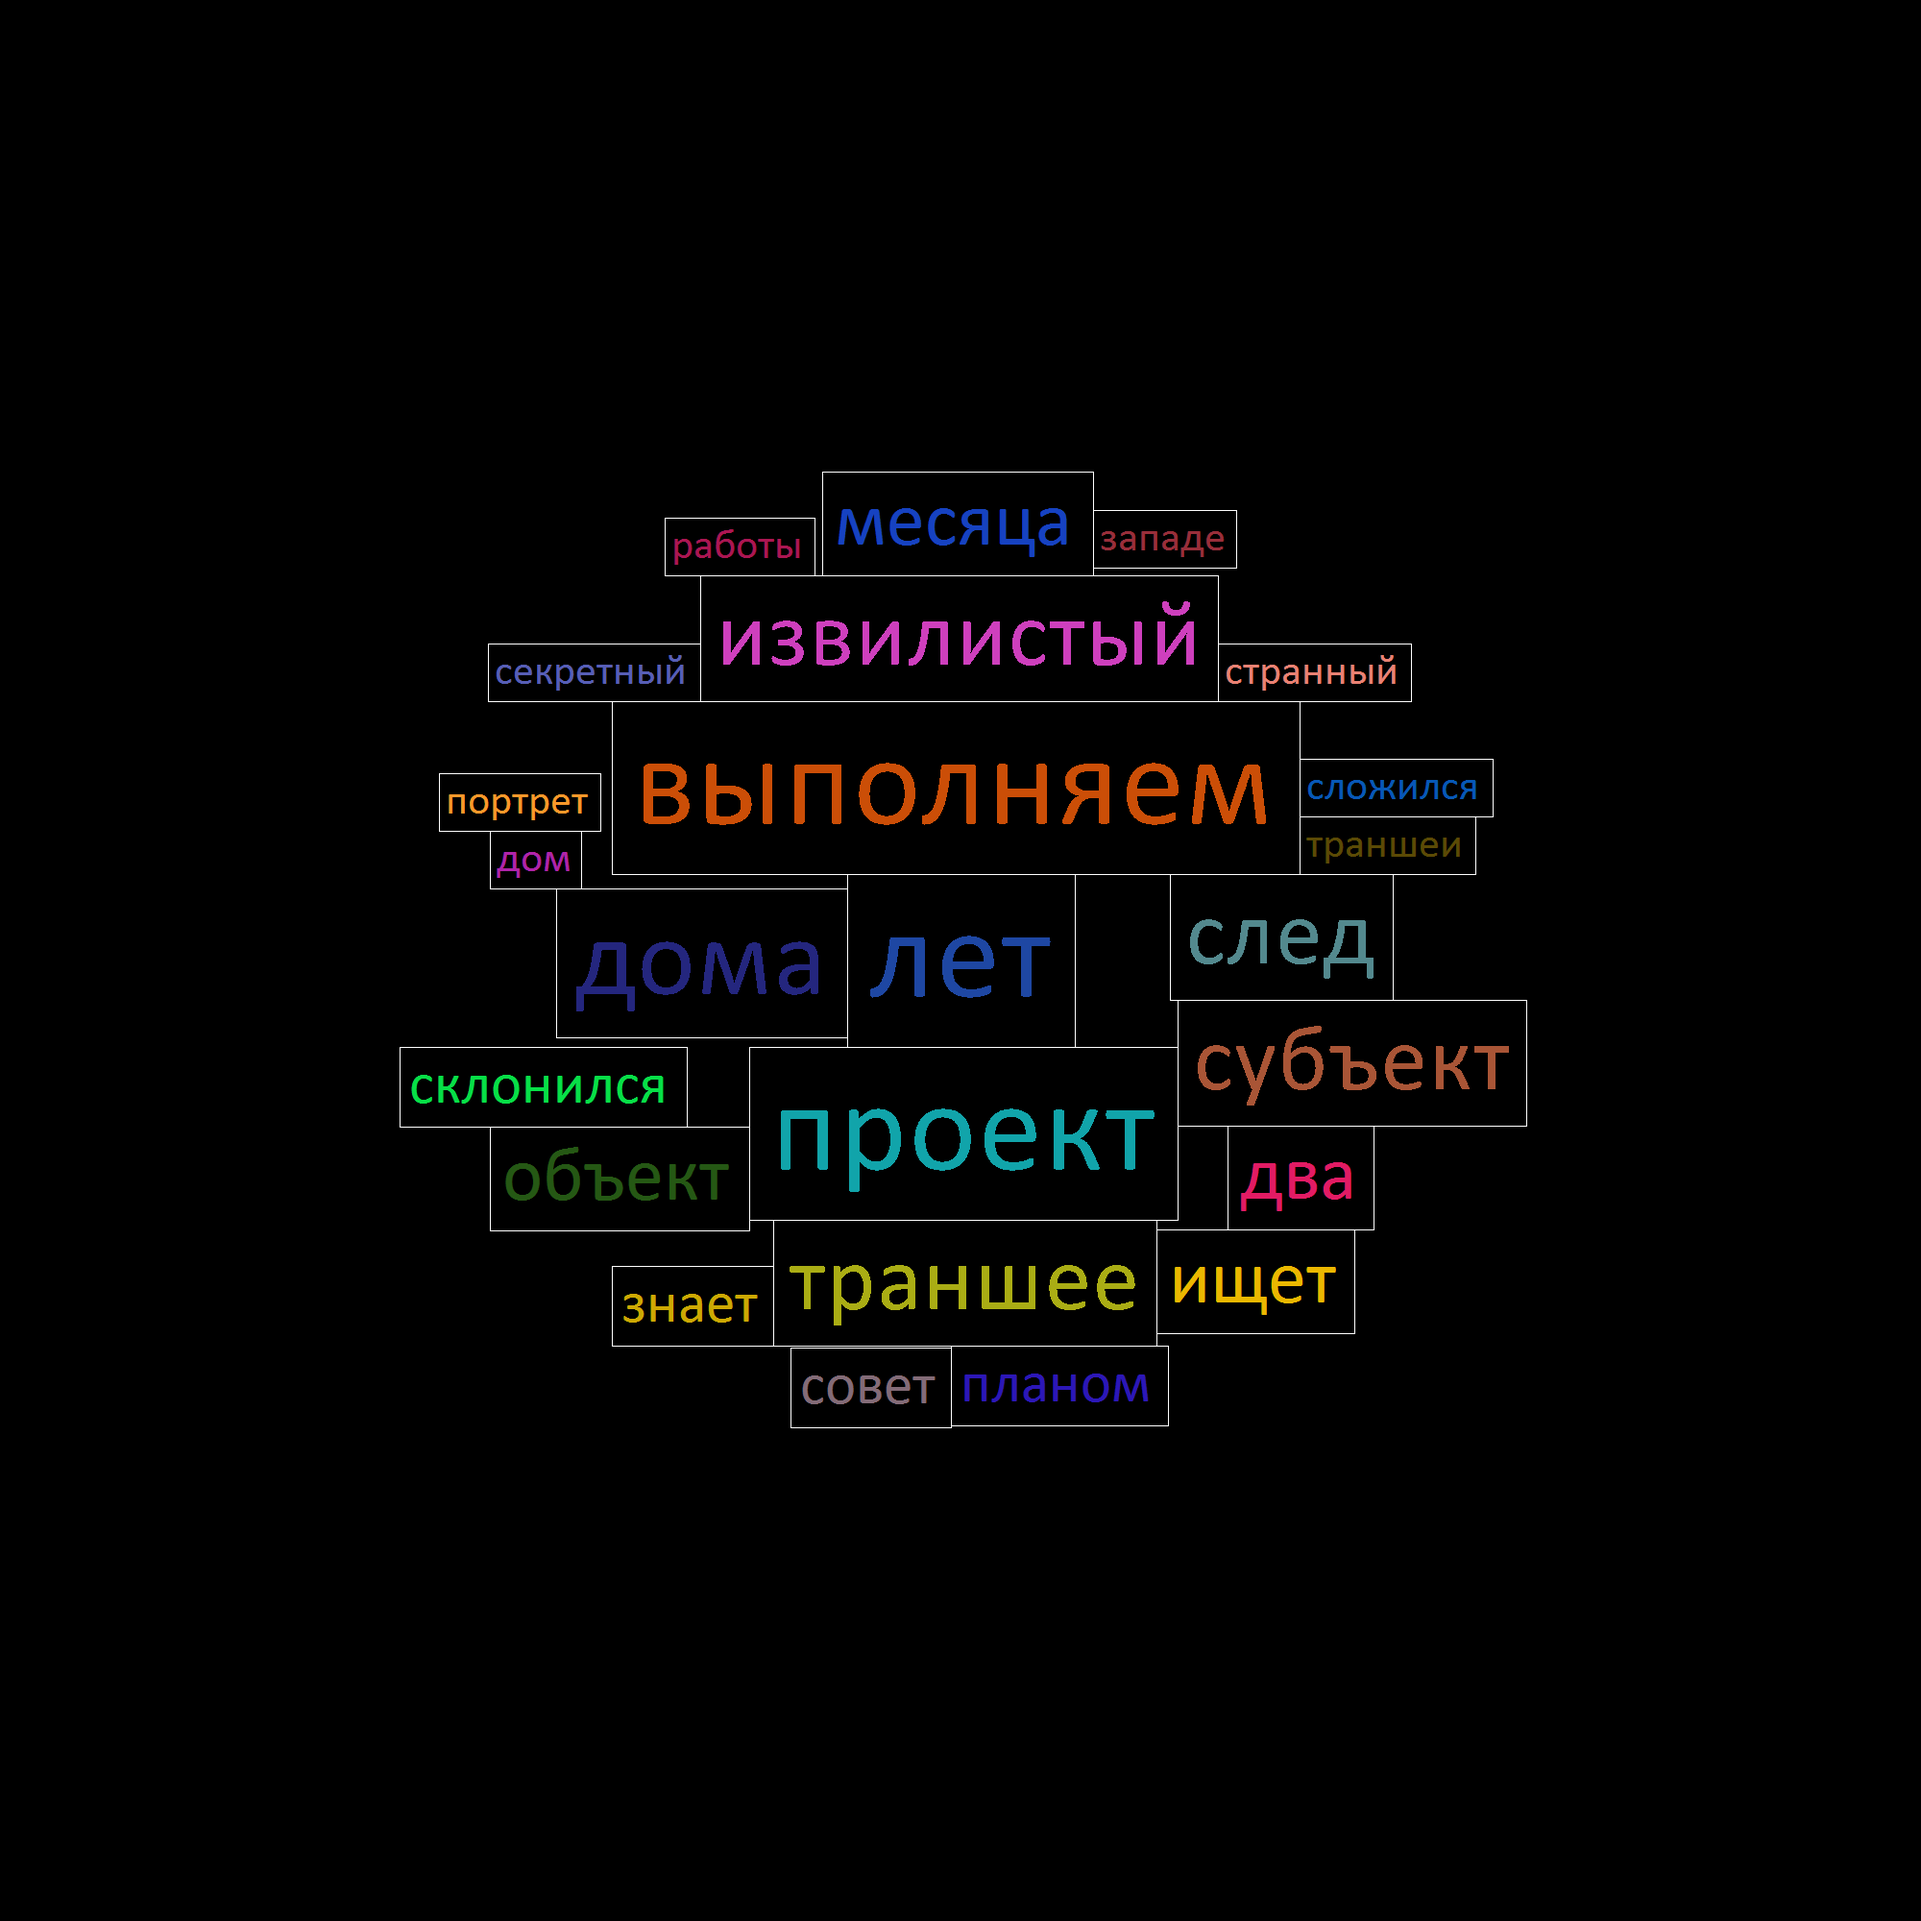
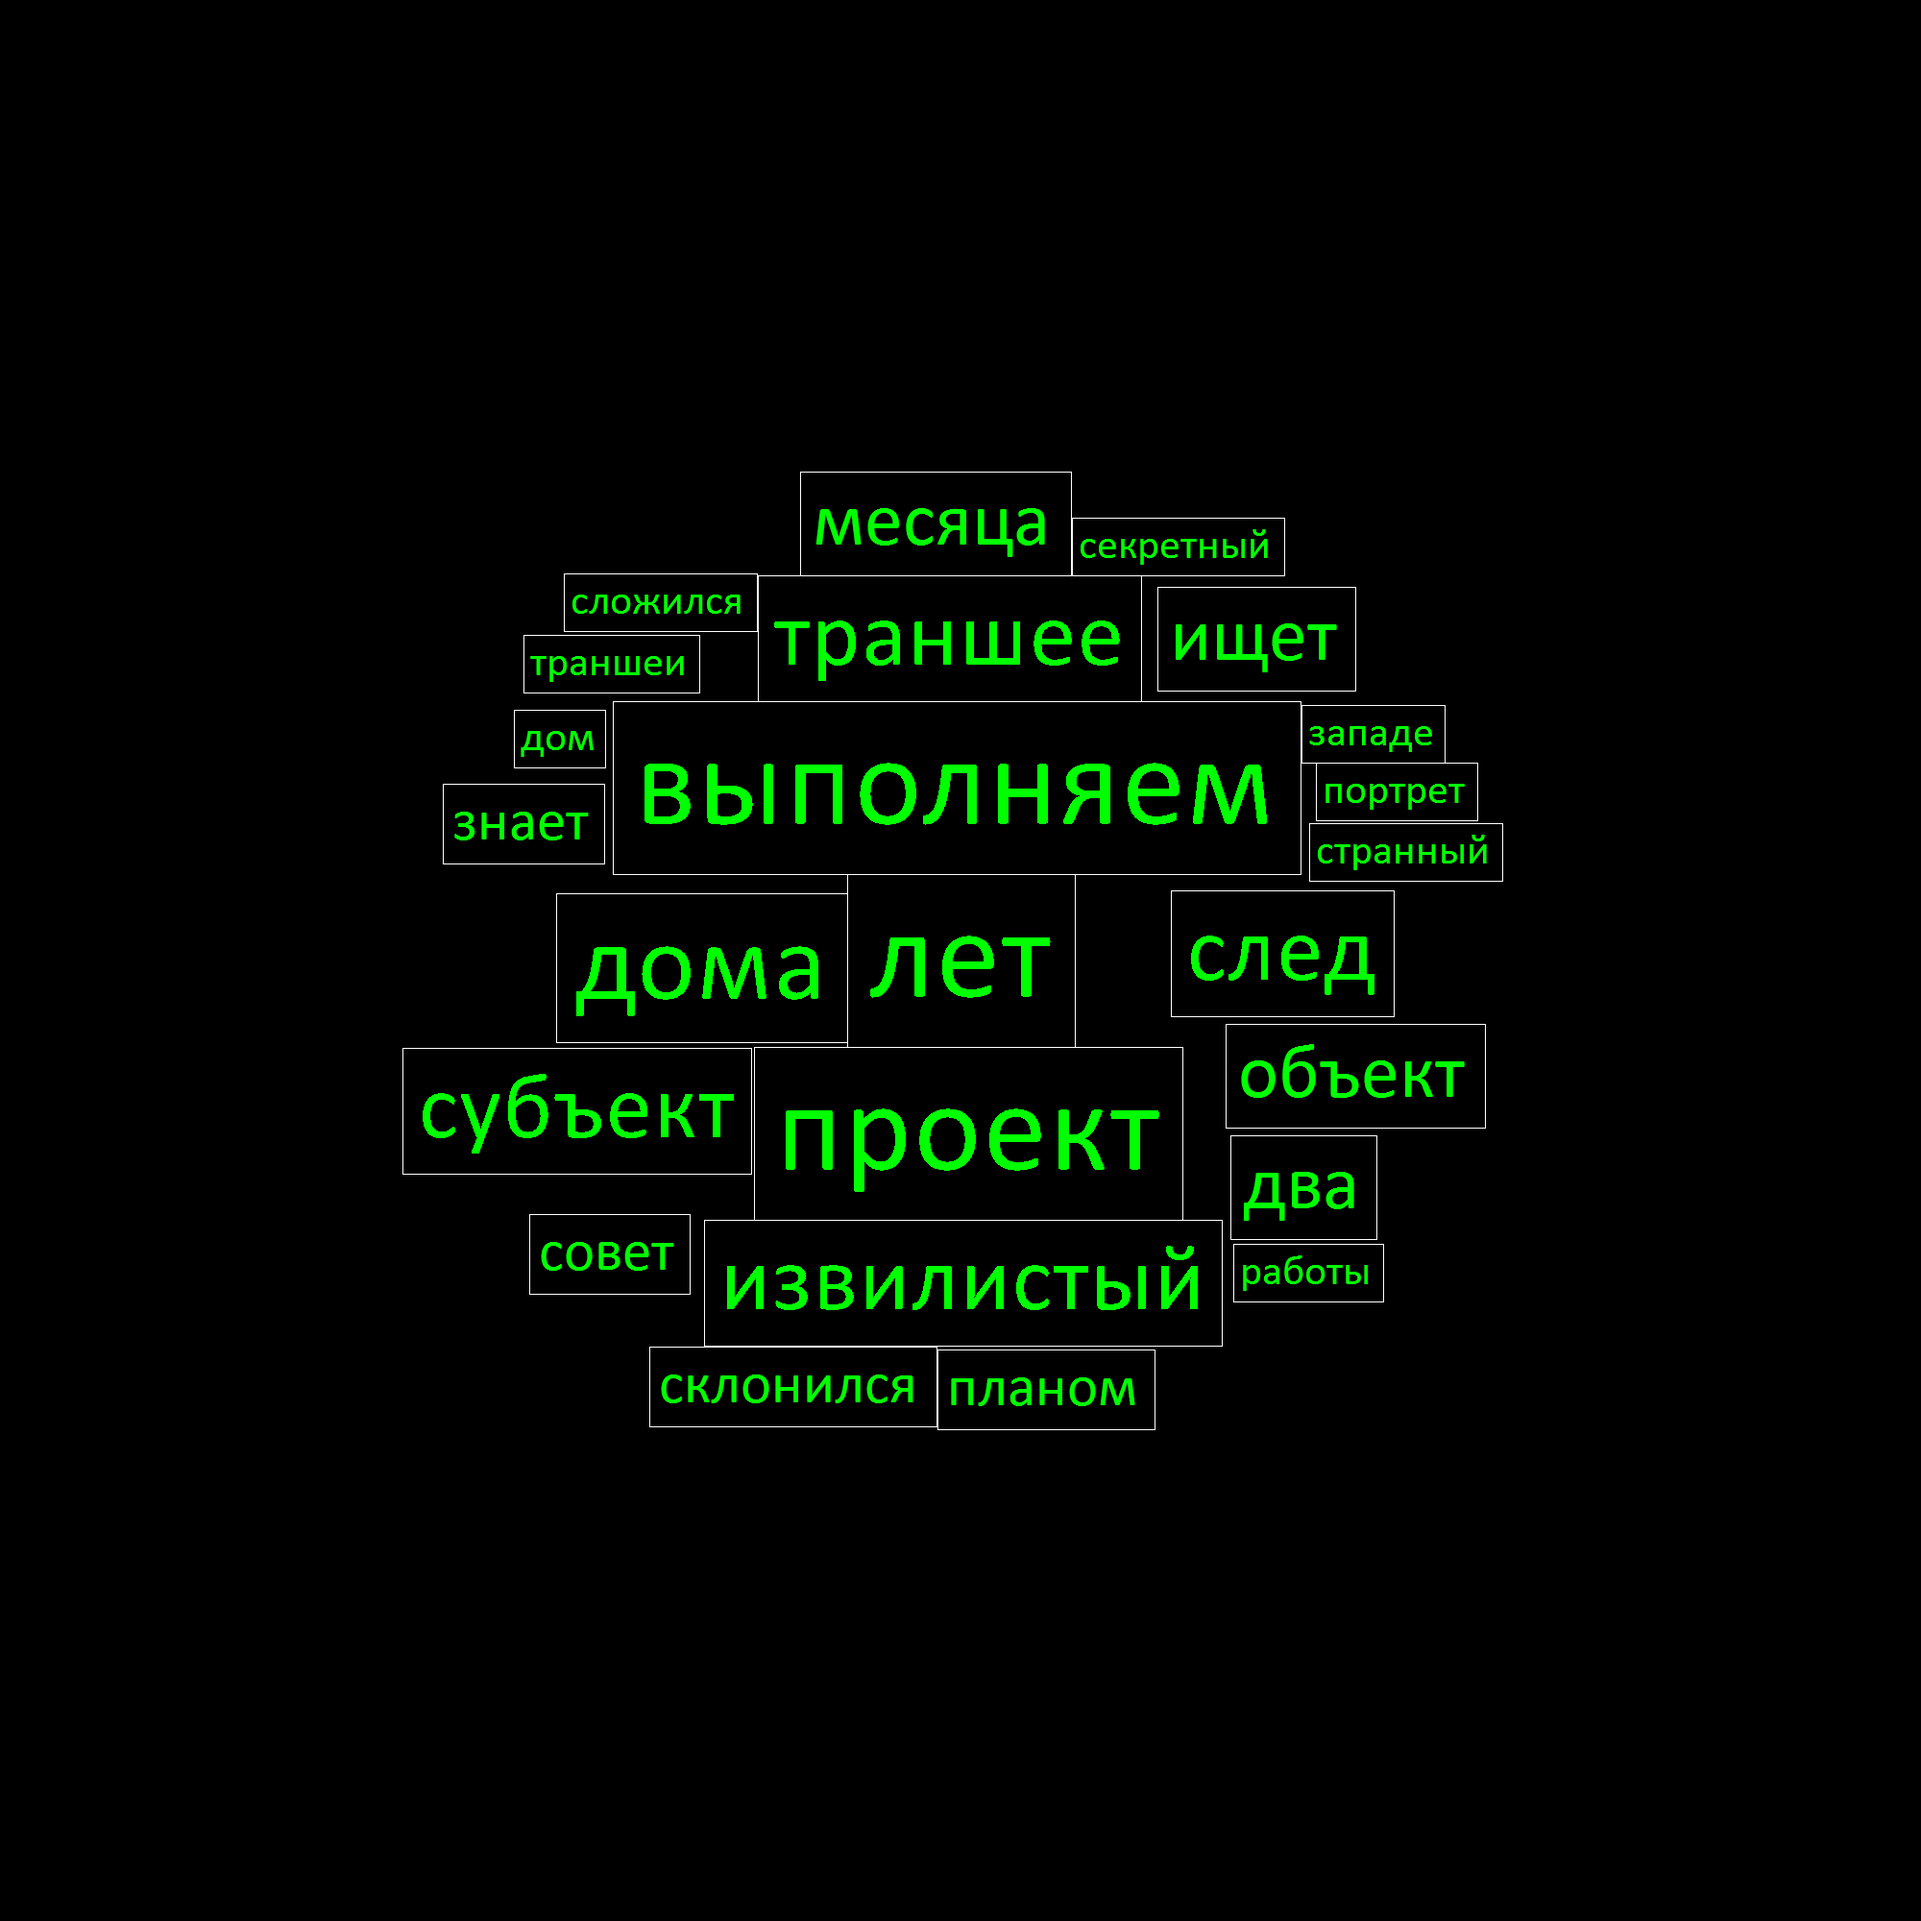
Добавил еще один алгоритм раскраски (один цвет по вводу пользователя)

Changed region(s): [[0.217, 0.248, 0.775, 0.744], [0.279, 0.465, 0.558, 0.527]]

diff --git a/TagsCloudVisualization/Options.cs b/TagsCloudVisualization/Options.cs
@@ -73,33 +73,35 @@ public class Options
 
     [Option('b', "background-color",
         Required = false,
-        HelpText = "Background color (format: 'black' or 'random')")]
+        HelpText = "Background color (format: 'black' or 'random' or '0xRRGGBB')")]
     public string BackgroundColorType { get; set; } = "black";
 
     public IImageColoring BackgroundColor
     {
-        get => BackgroundColorType.ToLower() switch
-        {
-            "black" => new BlackColoring(),
-            "random" => new RandomColoring(),
-            _ => throw new ArgumentException($"Invalid background color type: '{BackgroundColorType}'. Use 'black' or 'random'.")
-        };
+        get => GetColoringAlg(BackgroundColorType);
     }
 
     [Option('c', "word-color",
         Required = false,
-        HelpText = "Words color (format: 'black' or 'random')")]
+        HelpText = "Words color (format: 'black' or 'random' or '0xRRGGBB')")]
     public string WordColorType { get; set; } = "random";
 
     public IImageColoring ForegroundColor
     {
-        get => WordColorType.ToLower() switch
+        get => GetColoringAlg(WordColorType);
+    }
+
+    private IImageColoring GetColoringAlg(string colotStr) =>
+        colotStr.ToLower() switch
         {
             "black" => new BlackColoring(),
             "random" => new RandomColoring(),
-            _ => throw new ArgumentException($"Invalid word color type: '{WordColorType}'. Use 'black' or 'random'.")
+            _ when char.IsDigit(colotStr[0]) =>
+                new CustumSingleColoring(
+                    Color.FromArgb(255,
+                    Color.FromArgb(Convert.ToInt32(colotStr, 16)))),
+            _ => throw new ArgumentException($"Invalid color type: '{colotStr}'. Use 'black' or 'random'.")
         };
-    }
 
     [Option("image-name",
         Required = false,

diff --git a/TagsCloudVisualization/Program.cs b/TagsCloudVisualization/Program.cs
@@ -5,7 +5,6 @@ using TagsCloudVisualization.CloudLayouter.PointsGenerators;
 using TagsCloudVisualization.FileReaders;
 using TagsCloudVisualization.FileReaders.Filters;
 using TagsCloudVisualization.Visualizers;
-using TagCloudClient;
 
 namespace TagsCloudVisualization;
 
@@ -14,7 +13,7 @@ internal class Program
     //Запуск из ide
     public static void Main()
     {
-        Start("text.txt".Split());
+        Start("text.txt -c 0x00FF00".Split());
     }
 
     public static void Start(string[] args)

diff --git a/TagsCloudVisualization/SettingsFactory.cs b/TagsCloudVisualization/SettingsFactory.cs
@@ -1,7 +1,7 @@
 using TagsCloudVisualization.Settings;
 using TagsCloudVisualization.CloudLayouter.PointsGenerators;
 
-namespace TagCloudClient;
+namespace TagsCloudVisualization;
 
 public static class SettingsFactory
 {

diff --git a/TagsCloudVisualization/Visualizers/ImageColoring/CustumSingleColoring.cs b/TagsCloudVisualization/Visualizers/ImageColoring/CustumSingleColoring.cs
@@ -1,0 +1,8 @@
+using System.Drawing;
+
+namespace TagsCloudVisualization.Visualizers.ImageColoring;
+
+public class CustumSingleColoring(Color color) : IImageColoring
+{
+    public Color GetNextColor() => color;
+}
